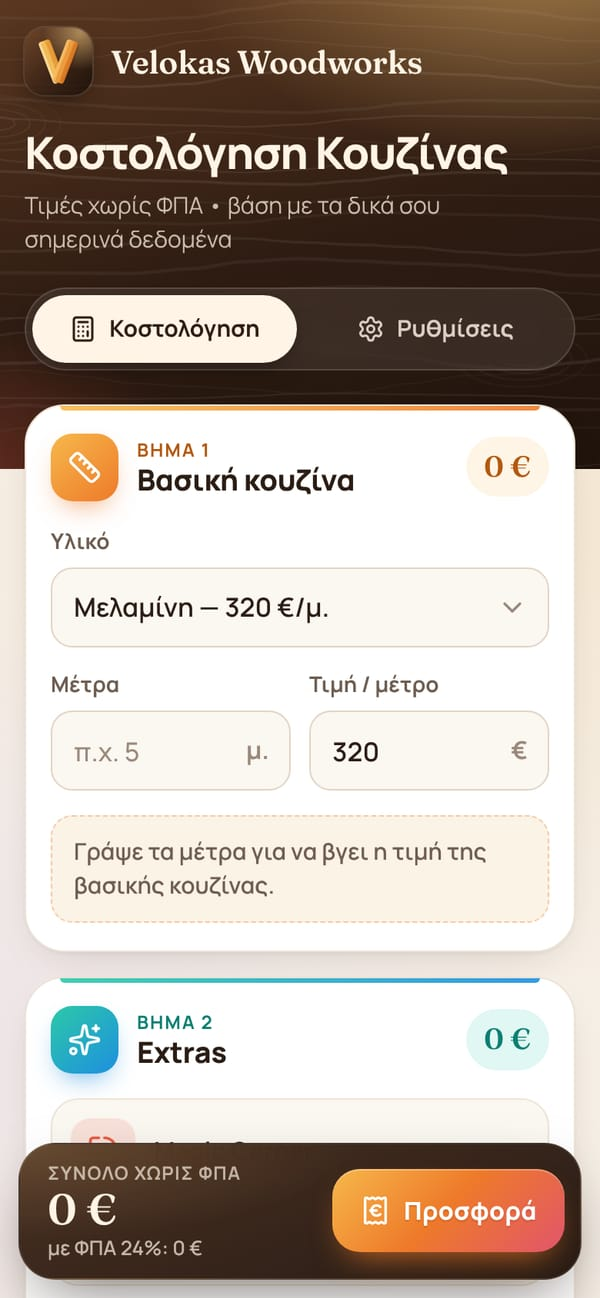
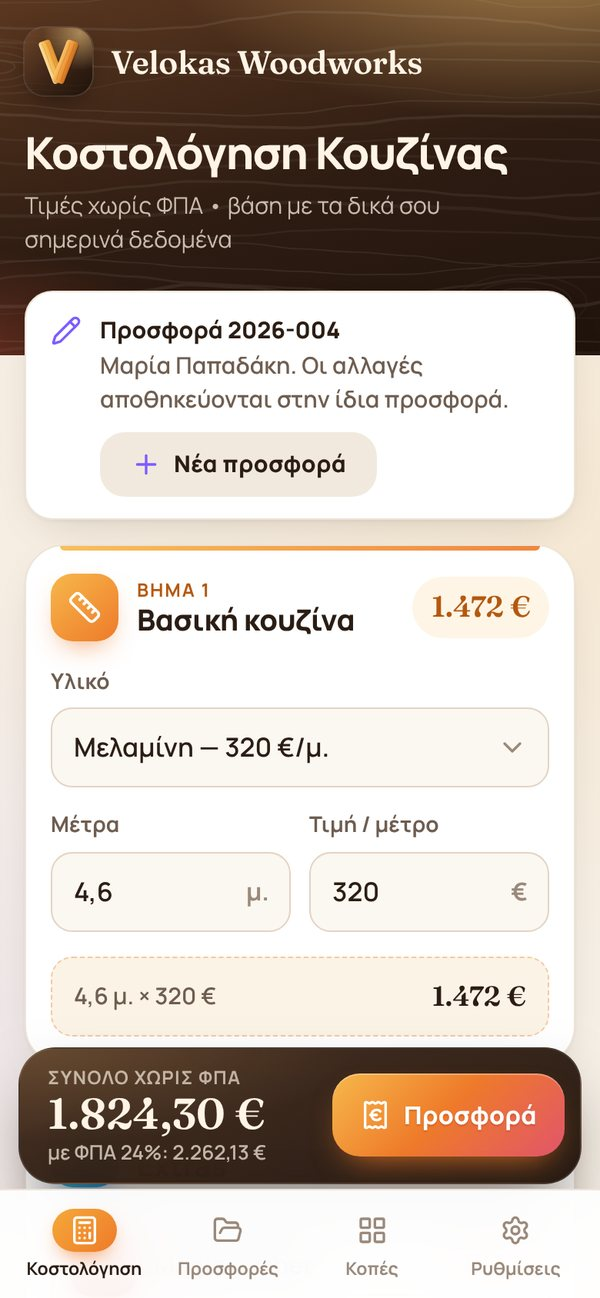
Document the archive, PDFs, cut list and offline use
README covers the four tabs, the quote PDF, numbering, the cut list,
offline use and installing, the new API routes and files, and how to
rebuild the generated icon sprite and PDF bundle. New screenshots of
each tab and of both PDFs.

Claude-Session: https://claude.ai/code/session_01NCuyXwTXpZEXrmp5Fd4whW

diff --git a/README.md b/README.md
@@ -1,37 +1,60 @@
-# Velokas Woodworks · Κοστολόγηση Κουζίνας
+# Velokas Woodworks
 
-A phone-first kitchen cost calculator for Velokas Woodworks, built from Panos's mockup. It runs entirely on Cloudflare's free tier: a Worker serves the app and a small API, and a D1 (SQLite) database stores the prices.
+A phone-first app for Velokas Woodworks, grown from Panos's kitchen-costing mockup: price a kitchen, send the customer a PDF quote, keep track of every quote, and work out how to cut the sheets. It runs entirely on Cloudflare's free tier: a Worker serves the app and a small API, and a D1 (SQLite) database stores the prices and the saved quotes.
 
 <p>
-  <img src="docs/screenshots/calculator.jpg" width="200" alt="Calculator">
-  <img src="docs/screenshots/extras.jpg" width="200" alt="Extras with steppers">
-  <img src="docs/screenshots/quote.jpg" width="200" alt="Quote sheet">
-  <img src="docs/screenshots/settings-dark.jpg" width="200" alt="Settings in dark mode">
+  <img src="docs/screenshots/calculator.jpg" width="200" alt="Calculator, editing a saved quote">
+  <img src="docs/screenshots/quote.jpg" width="200" alt="Quote sheet with PDF button">
+  <img src="docs/screenshots/archive.jpg" width="200" alt="Quote archive in dark mode">
+  <img src="docs/screenshots/cuts.jpg" width="200" alt="Cut plan with sheet diagrams">
+</p>
+<p>
+  <img src="docs/screenshots/pdf-quote.jpg" width="400" alt="PDF quote">
+  <img src="docs/screenshots/pdf-cuts.jpg" width="400" alt="PDF cut plan">
 </p>
 
 ## What it does
 
-**Κοστολόγηση (calculator tab)** — open to anyone with the link:
+Four tabs along the bottom of the screen.
+
+**Κοστολόγηση (calculator)**, open to anyone with the link:
 
 1. **Βασική κουζίνα:** pick the material and type the metres. The price per metre comes from Settings and can be changed for a single quote.
-2. **Extras:** each item has a quantity stepper and a unit price that can also be changed per quote, plus an «Άλλο extra» amount.
-3. **Εσωτερική κοστολόγηση (optional):** Panos's own costs (parts, doors, hardware, countertop, labour, transport) show the profit and margin. These are never included in the quote he sends.
+2. **Extras:** each item has a quantity stepper and a unit price that can also be changed per quote, plus an «Άλλο extra» with its own description.
+3. **Πελάτης & έκπτωση:** customer name, phone and area, a discount in % or €, and notes printed on the quote.
+4. **Εσωτερική κοστολόγηση (optional):** Panos's own costs (parts, doors, hardware, countertop, labour, transport) show the profit and margin. They never appear in anything the customer sees.
 
-The total updates live in the bar at the bottom. **Προσφορά** opens a breakdown with VAT, and **Αποστολή / Αντιγραφή** shares the quote as text (Viber, Messenger, email). Whatever is typed is kept on the phone, so a refresh doesn't lose it. If the network drops, the app falls back to the last prices it loaded.
+The total updates live in the bar at the bottom. **Προσφορά** opens the breakdown, with three actions:
 
-**Ρυθμίσεις (settings tab)** — password protected:
+- **PDF:** an A4 quote with the logo and business details, the customer, every line, discount, VAT, deposit, how long the offer is valid, the terms and signature lines. On a phone it goes straight to Viber, email and so on through the share sheet; it can also be downloaded or printed.
+- **Αποθήκευση:** saves it to the archive as `2026-001`, `2026-002`… (numbered per year). Making a PDF while logged in saves it too, so the PDF carries the number.
+- **Κείμενο:** the same quote as plain text for a quick message.
+
+Whatever is typed is kept on the phone, so a refresh doesn't lose it.
+
+**Προσφορές (archive)**, password protected: this year's quotes, how much was closed and the success rate; search by name, phone or number; filter by status. Tapping a quote shows it and lets Panos mark it Πρόχειρη → Στάλθηκε → Κλείστηκε / Δεν προχώρησε, make its PDF again, call the customer, open it in the calculator to change it (same number), start a new quote from a copy, or delete it.
+
+**Κοπές (cut list)** for melamine, MDF or plywood sheets: list the parts (size in mm, quantity, and which edges get banding: tap the sides of the little board). The app lays them out on as few sheets as it can, as guillotine cuts a panel saw can make, allowing for the blade and an edge trim, and optionally keeping the grain direction. It draws every sheet, adds up the banding in metres and, with prices, the material cost, and makes a **PDF για το πριόνι** for the workshop or the timber merchant. The list stays on the device.
+
+**Ρυθμίσεις (settings)**, password protected:
 
 - Business name, subtitle, VAT rate
-- Materials (price per metre), extras (price per piece and icon) and internal cost lines
-- Add, rename, reprice, hide or show, reorder and delete, then press **Αποθήκευση**
+- Details printed on the PDF: phone, email, address, ΑΦΜ, how many days a quote is valid, deposit %, terms
+- Materials (price per metre), extras (price per piece and icon) and internal cost lines: add, rename, reprice, hide, reorder and delete, then **Αποθήκευση**
 
-Calculation, all amounts excluding VAT:
+**Works offline and installs like an app.** After the first visit the app opens without internet: calculator, PDFs and cut lists work with the last prices loaded. The archive and saving quotes need a connection. On a computer, Chrome or Edge show an **Εγκατάσταση** button in the header. On a phone, use **Add to Home screen**.
+
+Calculation:
 
 ```
-base   = metres × price per metre
-extras = Σ quantity × unit price  +  other extra
-total  = base + extras            (VAT is shown on top of this)
-profit = total − internal costs   (margin = profit ÷ total)
+base     = metres × price per metre
+extras   = Σ quantity × unit price  +  other extra
+subtotal = base + extras
+net      = subtotal − discount        (discount: % of the subtotal, or an amount)
+VAT      = net × VAT rate             (rounded to the cent)
+total    = net + VAT
+deposit  = total × deposit %
+profit   = net − internal costs       (margin = profit ÷ net)
 ```
 
 The database starts with the values from the mockup. Only «Μελαμίνη — 320 €» was visible in the material dropdown, so add the other finishes in **Ρυθμίσεις**.
@@ -60,7 +83,7 @@ Every push to `main` runs the tests and deploys through GitHub Actions (`.github
 
 To change the Settings password later, update the `ADMIN_PASSWORD` secret and run the workflow again. That also signs every device out. For your own domain, go to Worker → Settings → Domains & Routes in Cloudflare.
 
-On Panos's phone, open the link and choose **Add to Home screen** (Chrome menu, or Safari's Share button). It gets its own app icon and opens full screen.
+On Panos's phone, open the link and choose **Add to Home screen** (Chrome menu, or Safari's Share button). It gets its own app icon, opens full screen and works without internet. On a computer, open the link in Chrome or Edge and press **Εγκατάσταση** at the top.
 
 ### Deploying from a computer instead
 
@@ -87,7 +110,12 @@ npm test          # unit tests + API tests against a real local Worker and datab
 npm run test:unit # unit tests only (no Worker)
 ```
 
-There is no build step. Files in `public/` are served as they are.
+There is no build step. Files in `public/` are served as they are. Two generated files are committed, so only rebuild them after changing their inputs:
+
+```bash
+npm run icons     # public/icons.svg, after editing the icon lists in scripts/build-icons.mjs
+npm run vendor    # public/vendor/pdf.js (pdf-lib + fontkit), after updating either package
+```
 
 ## Project layout
 
@@ -95,17 +123,32 @@ There is no build step. Files in `public/` are served as they are.
 public/                 the app (plain HTML, CSS and JS modules)
   index.html
   css/app.css           design tokens, light and dark themes
-  js/calc.js            pricing maths and Greek number formatting (pure, tested)
-  js/calculator.js      calculator tab
-  js/settings.js        settings tab
+  sw.js                 service worker: offline copy of the app
+  js/app.js             tabs, start-up
+  js/calc.js            pricing maths, the quote document, Greek formatting (pure, tested)
+  js/calculator.js      Κοστολόγηση tab
+  js/quotes.js          Προσφορές tab (archive)
+  js/cuts.js            Κοπές tab
+  js/cutlist.js         sheet cutting optimiser and banding total (pure, tested)
+  js/cutplan.js         cut plan from the tab's inputs, labels (pure, tested)
+  js/settings.js        Ρυθμίσεις tab
+  js/session.js         admin login shared by the tabs
+  js/pdf-common.js      PDF fonts, colours and drawing helpers
+  js/pdf-quote.js       the quote PDF
+  js/pdf-cuts.js        the cut plan PDF
+  js/pdf-share.js       "PDF ready" sheet: share, download, print
+  js/pwa.js             service worker registration, install button
   js/icons.js           icon list for the picker, colour helper
   icons.svg             Lucide icon sprite (generated by `npm run icons`)
+  vendor/pdf.js         pdf-lib + fontkit bundle (generated by `npm run vendor`)
+  fonts/pdf/            fonts embedded in PDFs (Greek included)
   _headers              security headers (CSP etc.) for static files
 src/                    the Worker (API)
   worker.js             routing and error handling
   config.js             read and save settings in D1
+  quotes.js             the quote archive in D1
   auth.js               admin login, sessions, password-guessing throttle
-  validate.js           validation of saved settings (pure, tested)
+  validate.js           validation of settings and quotes (pure, tested)
 migrations/             D1 schema and starting data
 tests/                  node:test suites
 wrangler.jsonc          Cloudflare configuration
@@ -121,24 +164,32 @@ wrangler.jsonc          Cloudflare configuration
 | POST | `/api/admin/logout` | admin | End the session |
 | GET | `/api/admin/config` | admin | Everything, including hidden items |
 | PUT | `/api/admin/config` | admin | Replace the settings (validated, versioned) |
+| GET | `/api/admin/quotes` | admin | Saved quotes, newest first (summaries) |
+| POST | `/api/admin/quotes` | admin | Save a new quote; it gets the next number of its year |
+| GET | `/api/admin/quotes/:id` | admin | One quote: the customer document and the form state |
+| PUT | `/api/admin/quotes/:id` | admin | Change a quote (number and status stay) |
+| PATCH | `/api/admin/quotes/:id` | admin | `{ "status": "draft" \| "sent" \| "accepted" \| "rejected" }` |
+| DELETE | `/api/admin/quotes/:id` | admin | Delete a quote |
 
-Prices are stored as integer cents. Saving sends the version the editor loaded; if another device saved in between, the API answers 409 instead of overwriting.
+Prices are stored as integer cents. Saving settings sends the version the editor loaded; if another device saved in between, the API answers 409 instead of overwriting. Quote totals are always worked out again on the server from the lines, so a saved quote adds up whatever the browser sent. Quote numbers follow the year in Greece (Europe/Athens).
 
 ### Changing the database
 
-Add a new numbered file such as `migrations/0002_add_quotes.sql`, try it locally with `npm run db:migrate:local`, then push to `main`. The deploy applies it after the new code goes live.
+Add a new numbered file such as `migrations/0003_something.sql`, try it locally with `npm run db:migrate:local`, then push to `main`. The deploy applies it right after the new code goes live; until then the API answers 503 for anything that needs the new tables, so keep each change compatible with the code before it.
 
 ## Security
 
 - Admin sessions use a random token in an `HttpOnly; Secure; SameSite=Strict` cookie, valid for 30 days. Only a SHA-256 hash of the token is stored.
 - After 10 wrong passwords from one IP within 15 minutes, logins are refused.
 - State-changing requests must be same-origin JSON. Static files get a strict Content Security Policy.
+- Saved quotes (with customers' names and phones) are only reachable with the admin login. The offline copy never stores admin data: the service worker skips `/api/`, and logging out clears the archive from the screen.
+- PDFs are made on the device; nothing is uploaded. The cut list stays in the browser's storage.
 - To change the password, update the `ADMIN_PASSWORD` secret and redeploy. This signs every device out.
 
 ## Free tier
 
-Requests for static files are free and unlimited. The free Workers plan allows 100,000 API requests per day; opening the app makes about one. D1 allows 5 million row reads and 100,000 row writes per day. This app uses a tiny fraction of either.
+Requests for static files are free and unlimited. The free Workers plan allows 100,000 API requests per day; opening the app makes about one. D1 allows 5 million row reads and 100,000 row writes per day, and 5 GB of storage, which is millions of quotes. PDFs and cut plans are made on the device, so they cost nothing. This app uses a tiny fraction of any of it.
 
 ## Credits
 
-Icons: [Lucide](https://lucide.dev) (ISC). Fonts: Manrope and Fraunces (SIL Open Font License, see `public/fonts/`).
+Icons: [Lucide](https://lucide.dev) (ISC). Fonts: Manrope and Fraunces (SIL Open Font License, see `public/fonts/`). PDFs: [pdf-lib](https://pdf-lib.js.org) and @pdf-lib/fontkit (MIT, see `public/vendor/LICENSES.txt`).
